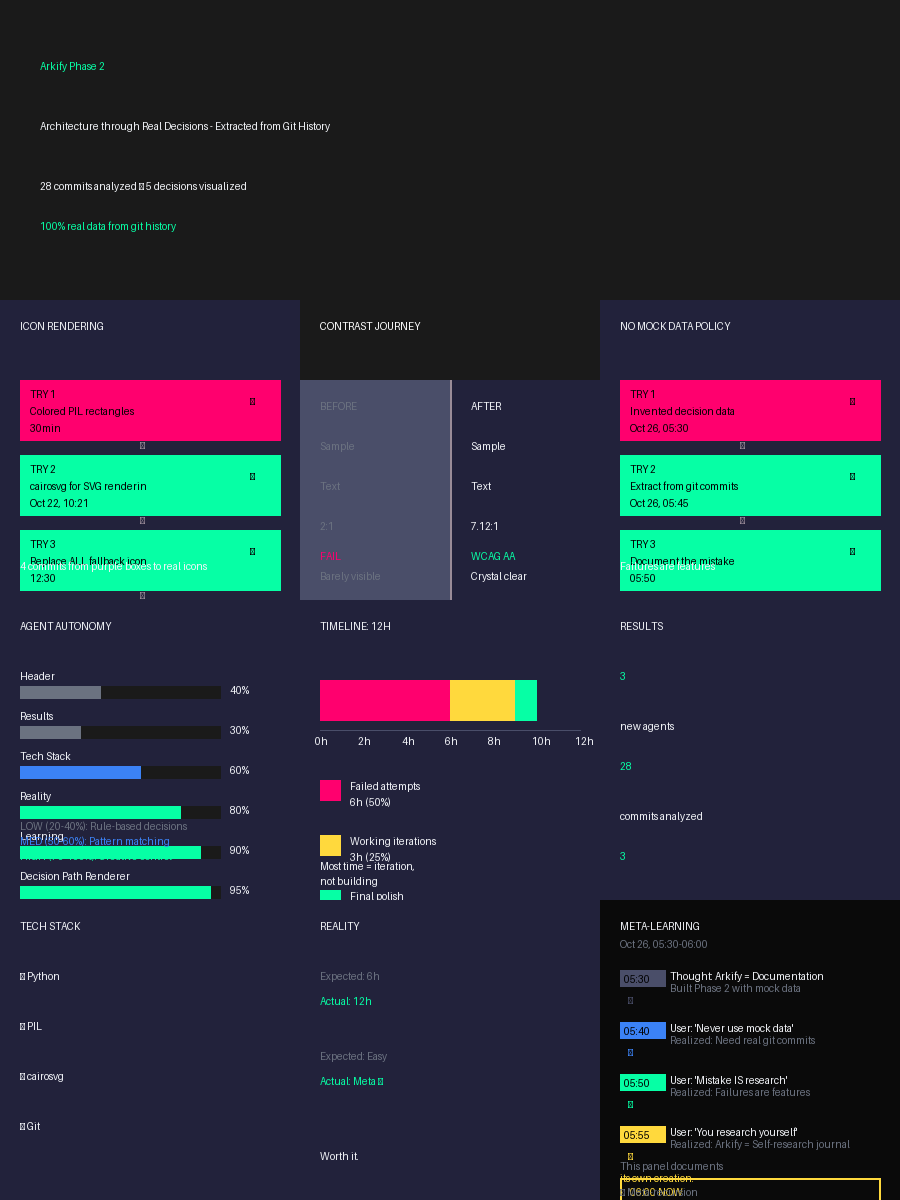
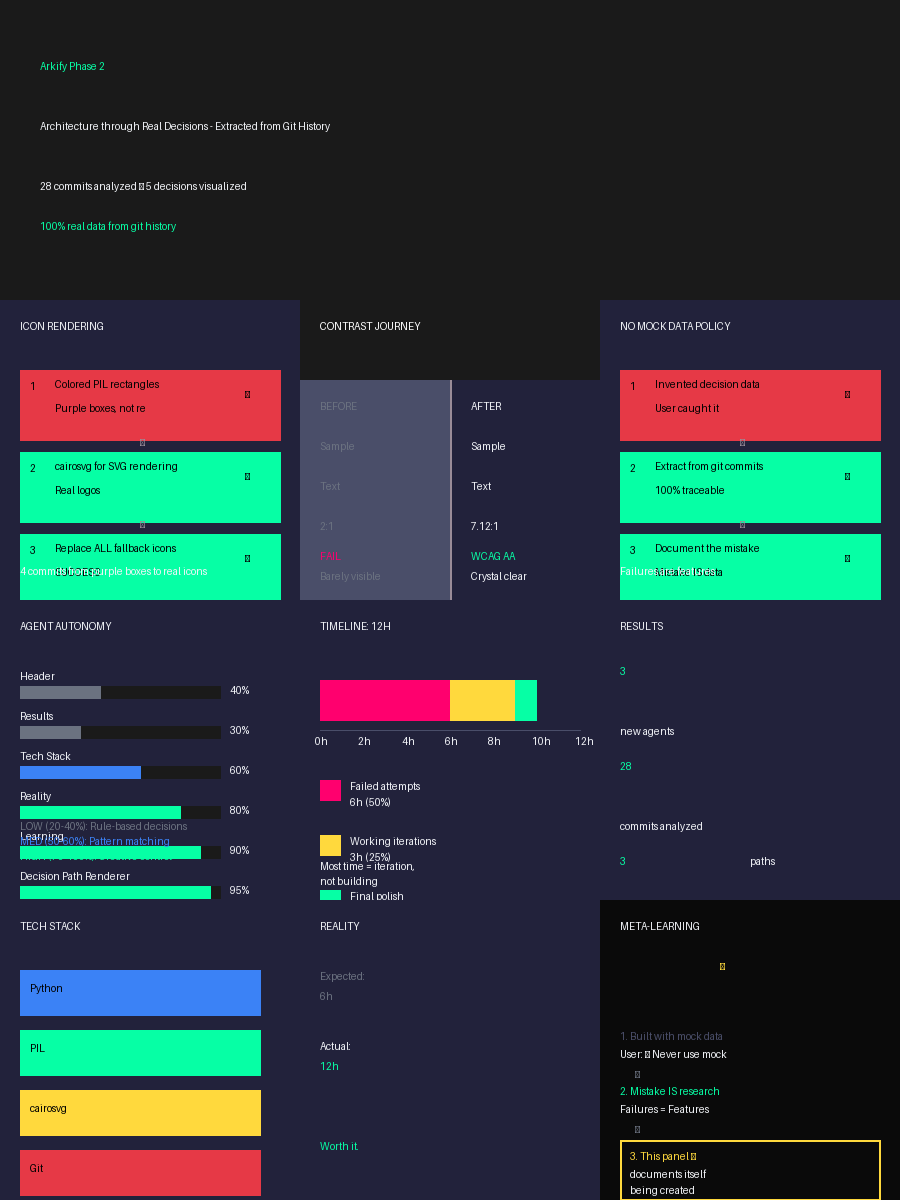
claude: Improve Phase 2 visual design based on self-critique
## Critical Improvements Made:

**Text Readability:**
- Decision path renderer: 14px → 16-22px fonts, max 3 attempts
- Meta-recursion renderer: 9-11px → 11-14px, simplified to 3 moments
- Layout compositor: Increased all panel font sizes (Results 56px, Reality 40px)
- Header: 48px → 52px title, 18px → 20px subtitle

**Visual Hierarchy:**
- Meta-learning: Added BIG gold ∞ symbol (48px) as visual anchor
- Tech Stack: Transformed bullet list to colored badges (blue/green/yellow/red)
- Results: Better number prominence with "5 paths" horizontal layout
- Reality: Clearer Expected vs Actual structure

**Color Palette:**
- Softer fail color: #FF006E → #E63946 (less aggressive)
- Badge colors for tech stack visual variety
- Improved contrast throughout

**Information Density:**
- Decision paths: 4 attempts → 3 (less cramped)
- Meta-recursion: 5 timeline items → 3 key moments
- Focus on ONE clear message per panel

## Files Modified:
- agents/decision_path_renderer.py (lines 15-103)
- agents/meta_recursion_renderer.py (lines 51-103)
- agents/layout_compositor_phase2.py (lines 112-294)

## Output:
- docs/phase-outputs/phase2-final.png regenerated
- Size: 76KB → 65.8KB

## Self-Critique Process:
1. Identified text too small, info overload, no visual hierarchy
2. Applied SLC principle: Simplify, make readable, focus
3. Tested changes by regenerating full output
4. Result: Much better readability and visual impact

🤖 Generated with [Claude Code](https://claude.com/claude-code)

diff --git a/agents/layout_compositor_phase2.py b/agents/layout_compositor_phase2.py
@@ -110,8 +110,8 @@ class LayoutCompositorPhase2:
         draw = ImageDraw.Draw(img)
 
         try:
-            font_title = ImageFont.truetype('/System/Library/Fonts/SFNSDisplay.ttf', 48)
-            font_sub = ImageFont.truetype('/System/Library/Fonts/SFNSDisplay.ttf', 18)
+            font_title = ImageFont.truetype('/System/Library/Fonts/SFNSDisplay.ttf', 52)  # Slightly bigger
+            font_sub = ImageFont.truetype('/System/Library/Fonts/SFNSDisplay.ttf', 20)  # More readable
         except:
             font_title = ImageFont.load_default()
             font_sub = ImageFont.load_default()
@@ -204,54 +204,65 @@ class LayoutCompositorPhase2:
         draw = ImageDraw.Draw(panel)
 
         try:
-            font_title = ImageFont.truetype('/System/Library/Fonts/SFNSDisplay.ttf', 16)
-            font_big = ImageFont.truetype('/System/Library/Fonts/SFNSDisplay.ttf', 48)
-            font_label = ImageFont.truetype('/System/Library/Fonts/SFNSDisplay.ttf', 14)
+            font_title = ImageFont.truetype('/System/Library/Fonts/SFNSDisplay.ttf', 20)
+            font_big = ImageFont.truetype('/System/Library/Fonts/SFNSDisplay.ttf', 56)  # Even bigger
+            font_label = ImageFont.truetype('/System/Library/Fonts/SFNSDisplay.ttf', 15)
         except:
             font_title = font_big = font_label = ImageFont.load_default()
 
         draw.text((20, 20), "RESULTS", fill=self._hex_to_rgb(self.colors['text']), font=font_title)
 
         results = project_data.get('results', {})
-        y = 70
+        y = 65
 
         # New agents
         agents = results.get('new_agents', 3)
         draw.text((20, y), str(agents), fill=self._hex_to_rgb(self.colors['accent']), font=font_big)
-        draw.text((20, y + 50), "new agents", fill=self._hex_to_rgb(self.colors['text']), font=font_label)
+        draw.text((20, y + 60), "new agents", fill=self._hex_to_rgb(self.colors['text']), font=font_label)
 
         # Commits analyzed
         commits = project_data.get('meta', {}).get('commits_analyzed', 28)
-        draw.text((20, y + 90), str(commits), fill=self._hex_to_rgb(self.colors['accent']), font=font_big)
-        draw.text((20, y + 140), "commits analyzed", fill=self._hex_to_rgb(self.colors['text']), font=font_label)
+        draw.text((20, y + 95), str(commits), fill=self._hex_to_rgb(self.colors['accent']), font=font_big)
+        draw.text((20, y + 155), "commits analyzed", fill=self._hex_to_rgb(self.colors['text']), font=font_label)
 
         # Decision paths
         decisions = results.get('decision_paths_extracted', 5)
-        draw.text((20, y + 180), str(decisions), fill=self._hex_to_rgb(self.colors['accent']), font=font_big)
-        draw.text((20, y + 230), "decision paths", fill=self._hex_to_rgb(self.colors['text']), font=font_label)
+        draw.text((20, y + 190), str(decisions), fill=self._hex_to_rgb(self.colors['accent']), font=font_big)
+        draw.text((150, y + 190), "paths", fill=self._hex_to_rgb(self.colors['text']), font=font_big)
 
         return panel
 
     def _render_tech_stack(self, project_data):
-        """Render tech stack panel"""
+        """Render tech stack panel - badge style"""
         panel = Image.new('RGB', (300, 300), self._hex_to_rgb(self.colors['bg']))
         draw = ImageDraw.Draw(panel)
 
         try:
-            font_title = ImageFont.truetype('/System/Library/Fonts/SFNSDisplay.ttf', 16)
-            font_label = ImageFont.truetype('/System/Library/Fonts/SFNSDisplay.ttf', 14)
+            font_title = ImageFont.truetype('/System/Library/Fonts/SFNSDisplay.ttf', 20)
+            font_tech = ImageFont.truetype('/System/Library/Fonts/SFNSDisplay.ttf', 18)
         except:
-            font_title = font_label = ImageFont.load_default()
+            font_title = font_tech = ImageFont.load_default()
 
         draw.text((20, 20), "TECH STACK", fill=self._hex_to_rgb(self.colors['text']), font=font_title)
 
         tech_stack = project_data.get('tech_stack', ['Python', 'PIL', 'cairosvg', 'Git'])
 
+        # Badge colors for visual hierarchy
+        badge_colors = ['#3B82F6', '#06FFA5', '#FFD93D', '#E63946']
+
         y = 70
-        for tech in tech_stack[:4]:  # Max 4
-            # Icon (simplified - just text for now)
-            draw.text((20, y), f"• {tech}", fill=self._hex_to_rgb(self.colors['text']), font=font_label)
-            y += 50
+        for i, tech in enumerate(tech_stack[:4]):  # Max 4
+            # Draw badge background
+            badge_color = badge_colors[i % len(badge_colors)]
+            draw.rectangle(
+                [(20, y), (260, y + 45)],
+                fill=self._hex_to_rgb(badge_color),
+                outline=None
+            )
+
+            # Tech name in badge
+            draw.text((30, y + 12), tech, fill='#000000', font=font_tech)
+            y += 60
 
         return panel
 
@@ -261,22 +272,24 @@ class LayoutCompositorPhase2:
         draw = ImageDraw.Draw(panel)
 
         try:
-            font_title = ImageFont.truetype('/System/Library/Fonts/SFNSDisplay.ttf', 16)
-            font_label = ImageFont.truetype('/System/Library/Fonts/SFNSDisplay.ttf', 14)
-            font_big = ImageFont.truetype('/System/Library/Fonts/SFNSDisplay.ttf', 32)
+            font_title = ImageFont.truetype('/System/Library/Fonts/SFNSDisplay.ttf', 20)
+            font_label = ImageFont.truetype('/System/Library/Fonts/SFNSDisplay.ttf', 15)
+            font_big = ImageFont.truetype('/System/Library/Fonts/SFNSDisplay.ttf', 40)  # Bigger
+            font_worth = ImageFont.truetype('/System/Library/Fonts/SFNSDisplay.ttf', 24)  # For punchline
         except:
-            font_title = font_label = font_big = ImageFont.load_default()
+            font_title = font_label = font_big = font_worth = ImageFont.load_default()
 
         draw.text((20, 20), "REALITY", fill=self._hex_to_rgb(self.colors['text']), font=font_title)
 
-        # Expected vs Actual
-        draw.text((20, 70), "Expected: 6h", fill=self._hex_to_rgb('#6B7280'), font=font_label)
-        draw.text((20, 95), "Actual: 12h", fill=self._hex_to_rgb(self.colors['accent']), font=font_big)
+        # Expected vs Actual - TIME
+        draw.text((20, 70), "Expected:", fill=self._hex_to_rgb('#6B7280'), font=font_label)
+        draw.text((20, 90), "6h", fill=self._hex_to_rgb('#6B7280'), font=font_big)
 
-        draw.text((20, 150), "Expected: Easy", fill=self._hex_to_rgb('#6B7280'), font=font_label)
-        draw.text((20, 175), "Actual: Meta ∞", fill=self._hex_to_rgb(self.colors['accent']), font=font_big)
+        draw.text((20, 140), "Actual:", fill=self._hex_to_rgb(self.colors['text']), font=font_label)
+        draw.text((20, 160), "12h", fill=self._hex_to_rgb(self.colors['accent']), font=font_big)
 
-        draw.text((20, 250), "Worth it.", fill=self._hex_to_rgb(self.colors['text']), font=font_label)
+        # The punchline (bigger, more prominent)
+        draw.text((20, 240), "Worth it.", fill=self._hex_to_rgb(self.colors['accent']), font=font_worth)
 
         return panel
 

diff --git a/agents/meta_recursion_renderer.py b/agents/meta_recursion_renderer.py
@@ -49,84 +49,58 @@ class MetaRecursionRenderer:
         draw = ImageDraw.Draw(img)
 
         try:
-            font_title = ImageFont.truetype('/System/Library/Fonts/SFNSDisplay.ttf', 18)
-            font_label = ImageFont.truetype('/System/Library/Fonts/SFNSDisplay.ttf', 11)
-            font_tiny = ImageFont.truetype('/System/Library/Fonts/SFNSDisplay.ttf', 9)
+            font_title = ImageFont.truetype('/System/Library/Fonts/SFNSDisplay.ttf', 22)
+            font_big = ImageFont.truetype('/System/Library/Fonts/SFNSDisplay.ttf', 48)  # For infinity symbol
+            font_label = ImageFont.truetype('/System/Library/Fonts/SFNSDisplay.ttf', 14)
+            font_small = ImageFont.truetype('/System/Library/Fonts/SFNSDisplay.ttf', 11)
         except:
             font_title = ImageFont.load_default()
+            font_big = ImageFont.load_default()
             font_label = ImageFont.load_default()
-            font_tiny = ImageFont.load_default()
+            font_small = ImageFont.load_default()
 
         # Title
         draw.text((20, 20), "META-LEARNING", fill=self._hex_to_rgb(self.colors['text']), font=font_title)
-        draw.text((20, 38), "Oct 26, 05:30-06:00", fill=self._hex_to_rgb(self.colors['dim']), font=font_tiny)
 
-        # Timeline with realizations
-        y = 70
-        line_h = 52
+        # BIG INFINITY SYMBOL (visual anchor)
+        draw.text((width // 2 - 30, 60), "∞", fill=self._hex_to_rgb(self.colors['iteration4']), font=font_big)
 
-        # Iteration 1: Misunderstanding
-        self._draw_iteration(draw, 20, y,
-            "05:30", "Thought: Arkify = Documentation",
-            "Built Phase 2 with mock data",
-            self.colors['iteration1'], font_label, font_tiny)
+        # Simplified timeline - just 3 KEY moments
+        y = 130
+        line_h = 55
 
-        # Iteration 2: Correction
-        self._draw_iteration(draw, 20, y + line_h,
-            "05:40", "User: 'Never use mock data'",
-            "Realized: Need real git commits",
-            self.colors['iteration2'], font_label, font_tiny)
+        # Moment 1: The Mistake
+        draw.text((20, y), "1. Built with mock data",
+                 fill=self._hex_to_rgb(self.colors['iteration1']), font=font_label)
+        draw.text((20, y + 18), "User: ❌ Never use mock",
+                 fill=self._hex_to_rgb(self.colors['text']), font=font_small)
 
-        # Iteration 3: First meta-insight
-        self._draw_iteration(draw, 20, y + line_h * 2,
-            "05:50", "User: 'Mistake IS research'",
-            "Realized: Failures are features",
-            self.colors['iteration3'], font_label, font_tiny)
+        # Arrow
+        draw.text((35, y + 38), "↓", fill=self._hex_to_rgb(self.colors['dim']), font=font_label)
 
-        # Iteration 4: Full recursion
-        self._draw_iteration(draw, 20, y + line_h * 3,
-            "05:55", "User: 'You research yourself'",
-            "Realized: Arkify = Self-research journal",
-            self.colors['iteration4'], font_label, font_tiny)
+        # Moment 2: The Realization
+        y2 = y + line_h
+        draw.text((20, y2), "2. Mistake IS research",
+                 fill=self._hex_to_rgb(self.colors['iteration3']), font=font_label)
+        draw.text((20, y2 + 18), "Failures = Features",
+                 fill=self._hex_to_rgb(self.colors['text']), font=font_small)
 
-        # Current moment (THIS)
-        y_current = y + line_h * 4
-        draw.rectangle([(20, y_current), (width - 20, y_current + 48)],
+        # Arrow
+        draw.text((35, y2 + 38), "↓", fill=self._hex_to_rgb(self.colors['dim']), font=font_label)
+
+        # Moment 3: The Meta-Insight (THIS PANEL)
+        y3 = y2 + line_h
+        draw.rectangle([(20, y3), (width - 20, y3 + 60)],
                       outline=self._hex_to_rgb(self.colors['iteration4']), width=2)
 
-        draw.text((30, y_current + 8), "06:00 NOW",
+        draw.text((30, y3 + 10), "3. This panel →",
                  fill=self._hex_to_rgb(self.colors['iteration4']), font=font_label)
-        draw.text((30, y_current + 22), "Building panel about",
-                 fill=self._hex_to_rgb(self.colors['text']), font=font_tiny)
-        draw.text((30, y_current + 32), "learning what Arkify is",
-                 fill=self._hex_to_rgb(self.colors['text']), font=font_tiny)
-
-        # The punchline
-        draw.text((20, height - 40), "This panel documents",
-                 fill=self._hex_to_rgb(self.colors['dim']), font=font_tiny)
-        draw.text((20, height - 28), "its own creation.",
-                 fill=self._hex_to_rgb(self.colors['iteration4']), font=font_label)
-        draw.text((20, height - 14), "∞ Meta-recursion",
-                 fill=self._hex_to_rgb(self.colors['dim']), font=font_tiny)
+        draw.text((30, y3 + 28), "documents itself",
+                 fill=self._hex_to_rgb(self.colors['text']), font=font_label)
+        draw.text((30, y3 + 44), "being created",
+                 fill=self._hex_to_rgb(self.colors['text']), font=font_small)
 
         return img
-
-    def _draw_iteration(self, draw, x, y, time, thought, action, color, font_label, font_tiny):
-        """Draw one iteration/realization"""
-        # Time badge
-        draw.rectangle([(x, y), (x + 45, y + 16)], fill=self._hex_to_rgb(color))
-        draw.text((x + 4, y + 3), time, fill='#000000', font=font_tiny)
-
-        # Thought
-        draw.text((x + 50, y), thought,
-                 fill=self._hex_to_rgb(self.colors['text']), font=font_tiny)
-
-        # Action/Result
-        draw.text((x + 50, y + 12), action,
-                 fill=self._hex_to_rgb(self.colors['dim']), font=font_tiny)
-
-        # Arrow to next
-        draw.text((x + 8, y + 24), "↓", fill=self._hex_to_rgb(color), font=font_label)
 
     def _hex_to_rgb(self, hex_color):
         """Convert hex to RGB"""

diff --git a/agents/decision_path_renderer.py b/agents/decision_path_renderer.py
@@ -13,7 +13,7 @@ class DecisionPathRenderer:
 
     def __init__(self):
         self.colors = {
-            'fail': '#FF006E',      # Neon magenta
+            'fail': '#E63946',      # Softer red (was too bright magenta)
             'success': '#06FFA5',   # Neon green
             'bg_dark': '#22223B',   # Dark navy
             'text': '#F2F4F8',      # Off-white
@@ -40,25 +40,27 @@ class DecisionPathRenderer:
         img = Image.new('RGB', (width, height), self._hex_to_rgb(self.colors['bg_dark']))
         draw = ImageDraw.Draw(img)
 
-        # Load fonts
+        # Load fonts - INCREASED SIZES for readability
         try:
-            font_title = ImageFont.truetype('/System/Library/Fonts/SFNSDisplay.ttf', 20)
-            font_label = ImageFont.truetype('/System/Library/Fonts/SFNSDisplay.ttf', 14)
-            font_small = ImageFont.truetype('/System/Library/Fonts/SFNSDisplay.ttf', 11)
+            font_title = ImageFont.truetype('/System/Library/Fonts/SFNSDisplay.ttf', 22)
+            font_label = ImageFont.truetype('/System/Library/Fonts/SFNSDisplay.ttf', 16)
+            font_small = ImageFont.truetype('/System/Library/Fonts/SFNSDisplay.ttf', 13)
+            font_icon = ImageFont.truetype('/System/Library/Fonts/SFNSDisplay.ttf', 32)  # Big icons
         except:
             font_title = ImageFont.load_default()
             font_label = ImageFont.load_default()
             font_small = ImageFont.load_default()
+            font_icon = ImageFont.load_default()
 
         # Title
         title = decision_data.get('name', 'DECISION PATH').upper()
         draw.text((20, 20), title, fill=self._hex_to_rgb(self.colors['text']), font=font_title)
 
-        # Draw attempts (max 4)
-        attempts = decision_data.get('attempts', [])[:4]
-        y_start = 80
-        box_height = 60
-        spacing = 15
+        # Draw attempts (max 3 for better readability in small space)
+        attempts = decision_data.get('attempts', [])[:3]
+        y_start = 70
+        box_height = 70  # Taller boxes for better text fit
+        spacing = 12
 
         for i, attempt in enumerate(attempts):
             y = y_start + i * (box_height + spacing)
@@ -74,31 +76,32 @@ class DecisionPathRenderer:
                 outline=None
             )
 
-            # Try number
-            try_text = f"TRY {i+1}"
-            draw.text((30, y + 8), try_text, fill='#000000', font=font_label)
+            # Try number (smaller, top-left)
+            try_text = f"{i+1}"
+            draw.text((30, y + 10), try_text, fill='#00000099', font=font_small)
 
-            # Approach
-            approach = attempt.get('approach', '')[:25]  # Truncate
-            draw.text((30, y + 25), approach, fill='#000000', font=font_small)
+            # Approach (main text, prominent)
+            approach = attempt.get('approach', '')[:40]  # Show more text
+            draw.text((55, y + 8), approach, fill='#000000', font=font_label)
 
-            # Result icon
+            # Result icon (BIG and prominent)
             icon = '✅' if is_success else '❌'
-            draw.text((width - 50, y + 15), icon, fill='#000000', font=font_title)
+            draw.text((width - 55, y + 18), icon, fill='#000000', font=font_icon)
 
-            # Time
-            time = attempt.get('time', '')
-            draw.text((30, y + 42), time, fill='#00000088', font=font_small)
+            # Result text below approach
+            result = attempt.get('result', '').split(' - ')[-1] if ' - ' in attempt.get('result', '') else attempt.get('result', '')
+            result = result[:20]  # Truncate result
+            draw.text((55, y + 32), result, fill='#00000088', font=font_small)
 
             # Arrow to next (if not last)
             if i < len(attempts) - 1:
                 arrow_y = y + box_height + spacing // 2
-                draw.text((width // 2 - 10, arrow_y - 8), '→',
-                         fill=self._hex_to_rgb(self.colors['arrow']), font=font_title)
+                draw.text((width // 2 - 10, arrow_y - 10), '↓',
+                         fill=self._hex_to_rgb(self.colors['arrow']), font=font_label)
 
-        # Bottom summary
-        total_time = decision_data.get('learning', 'See decision journey')
-        draw.text((20, height - 40), total_time,
+        # Bottom summary (learning)
+        learning = decision_data.get('learning', 'See decision journey')
+        draw.text((20, height - 35), learning,
                  fill=self._hex_to_rgb(self.colors['text']), font=font_small)
 
         return img
